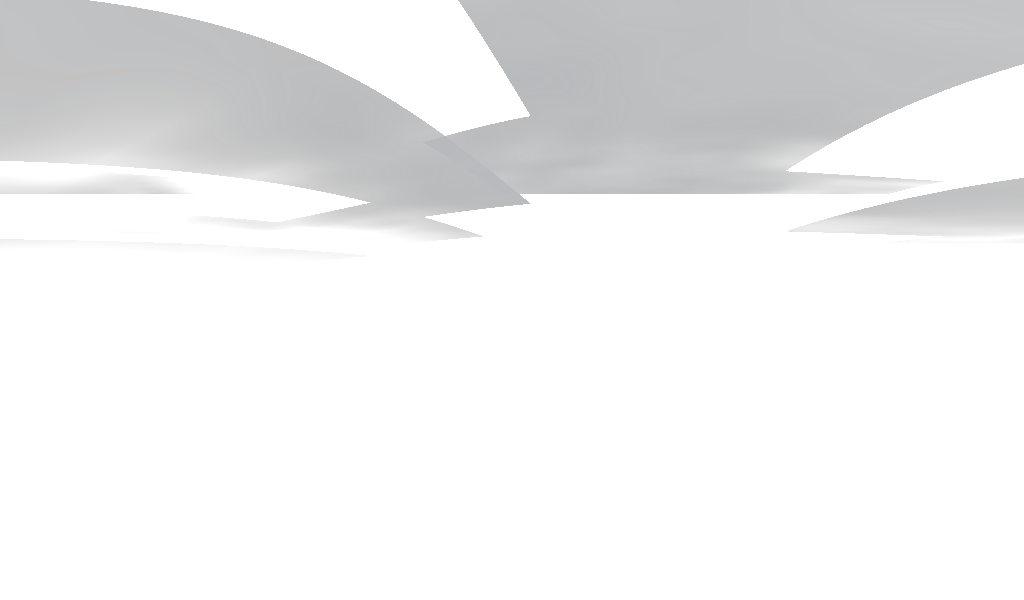
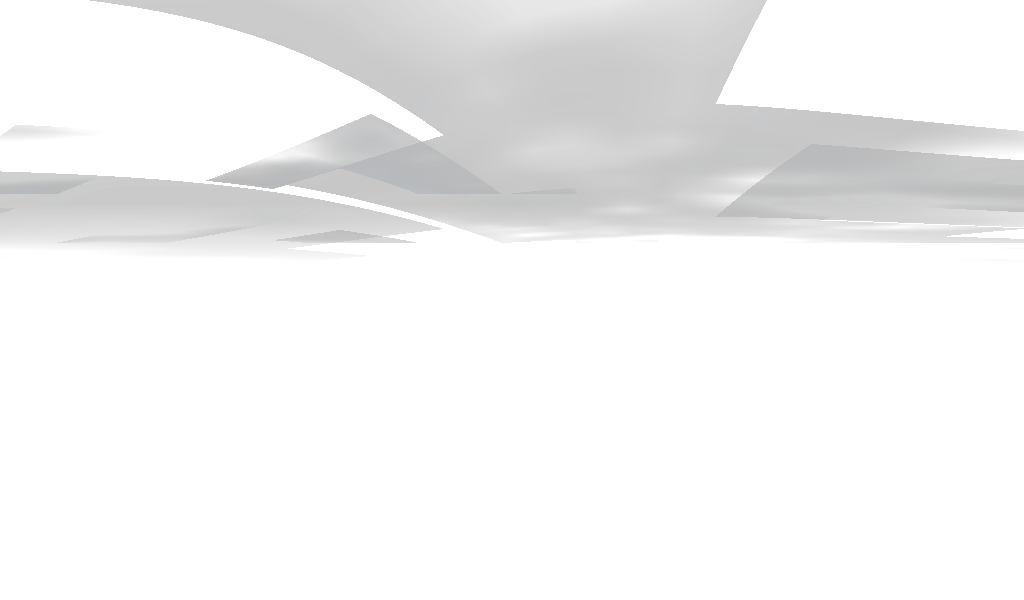
Stream live Cliff House runtime

Changed region(s): [[0.0, 0.0, 1.0, 0.42], [0.8125, 0.36, 1.0, 0.42], [0.5312, 0.21, 0.5938, 0.27]]

diff --git a/site/_worker.js b/site/_worker.js
@@ -1,0 +1,33 @@
+const LIVE_PREFIX = '/cliffhouse/runtime/';
+const LIVE_ORIGIN = 'https://raw.githubusercontent.com/CastaliaInstitute/luminary/runtime-live/';
+
+export default {
+  async fetch(request, env) {
+    const url = new URL(request.url);
+    if (!url.pathname.startsWith(LIVE_PREFIX)) {
+      return env.ASSETS.fetch(request);
+    }
+
+    const relativePath = url.pathname.slice(1);
+    const upstream = new URL(relativePath, LIVE_ORIGIN);
+    // GitHub's raw-file edge may briefly retain a force-updated branch URL.
+    // A five-minute generation key bounds that delay without producing an
+    // unbounded cache key for every browser request.
+    upstream.searchParams.set('generation', String(Math.floor(Date.now() / 300000)));
+    const response = await fetch(upstream, {
+      headers: { Accept: request.headers.get('Accept') || '*/*' },
+      redirect: 'follow',
+    });
+    if (!response.ok) {
+      return new Response('Live Cliff House runtime is temporarily unavailable.', {
+        status: response.status,
+        headers: { 'Content-Type': 'text/plain; charset=utf-8', 'Cache-Control': 'no-store' },
+      });
+    }
+
+    const headers = new Headers(response.headers);
+    headers.set('Cache-Control', 'public, max-age=60, stale-while-revalidate=240');
+    headers.set('X-Luminary-Runtime', 'runtime-live');
+    return new Response(response.body, { status: response.status, headers });
+  },
+};

diff --git a/site/cliffhouse/cliff-house.js b/site/cliffhouse/cliff-house.js
@@ -290,10 +290,11 @@ async function refreshLive() {
 
 async function loadMeasuredClouds() {
   try {
-    const metadata = await json('./runtime/clouds/goes-cloud-plane.json');
+    const metadata = await json(`./runtime/clouds/goes-cloud-plane.json?t=${Date.now()}`);
     const count = Math.min(12, metadata.motion?.frame_count || 0);
+    const generation = encodeURIComponent(metadata.source_times_utc?.at(-1) || Date.now());
     const frames = await Promise.all(Array.from({ length: count }, (_, i) =>
-      image(`./runtime/clouds/cloud-frame-${String(i).padStart(3, '0')}.png`)));
+      image(`./runtime/clouds/cloud-frame-${String(i).padStart(3, '0')}.png?v=${generation}`)));
     measuredCloudFrames = frames;
     measuredCloudMaps = frames.map((frame) => {
       const sample = new OffscreenCanvas(64, 32);

diff --git a/site/cliffhouse/index.html b/site/cliffhouse/index.html
@@ -10,8 +10,8 @@
   <meta name="apple-mobile-web-app-title" content="Cliff House">
   <title>Cliff House Luminary</title>
   <link rel="canonical" href="https://luminary.castalia.institute/cliffhouse/">
-  <link rel="manifest" href="./manifest.webmanifest?v=2">
-  <link rel="stylesheet" href="./cliff-house.css?v=2">
+  <link rel="manifest" href="./manifest.webmanifest?v=3">
+  <link rel="stylesheet" href="./cliff-house.css?v=3">
 </head>
 <body>
   <main class="stage" aria-label="Cliff House live sea and sky">
@@ -22,6 +22,6 @@
     </section>
     <div id="offline" class="offline" hidden>Offline · cached conditions</div>
   </main>
-  <script type="module" src="./cliff-house.js?v=2"></script>
+  <script type="module" src="./cliff-house.js?v=3"></script>
 </body>
 </html>

diff --git a/site/cliffhouse/sw.js b/site/cliffhouse/sw.js
@@ -1,4 +1,4 @@
-const CACHE = 'cliff-house-luminary-v2';
+const CACHE = 'cliff-house-luminary-v3';
 const SHELL = [
   './', './index.html', './cliff-house.css', './cliff-house.js', './solar.js',
   './manifest.webmanifest', './assets/registration.json',

diff --git a/scripts/update-cliffhouse-web-runtime.py b/scripts/update-cliffhouse-web-runtime.py
@@ -1,0 +1,100 @@
+#!/usr/bin/env python3
+"""Build the live Cliff House web runtime from the current York observations.
+
+The Nubble and Cliff House views share the same GOES downloads and measured
+height-resolved winds. This script reprojects that measured atmosphere through
+the Cliff House camera and publishes only the compact browser assets.
+"""
+
+from __future__ import annotations
+
+import argparse
+import json
+import shutil
+import subprocess
+import sys
+from pathlib import Path
+
+
+ROOT = Path(__file__).resolve().parents[1]
+PYTHON = sys.executable
+CONFIG = ROOT / "config/cliff-house-conditions.json"
+YORK_CLOUDS = ROOT / "tmp/york-live/goes-clouds"
+OUTPUT = ROOT / "site/cliffhouse/runtime"
+WORK = ROOT / "tmp/cliffhouse-live"
+
+
+def run(*arguments: str) -> None:
+    subprocess.run([PYTHON, *arguments], cwd=ROOT, check=True)
+
+
+def main() -> None:
+    parser = argparse.ArgumentParser(description=__doc__)
+    parser.add_argument("--frames", type=int, default=12)
+    parser.add_argument("--loop-seconds", type=float, default=120.0)
+    args = parser.parse_args()
+
+    config = json.loads(CONFIG.read_text())
+    camera = config["camera"]
+    source_manifest = json.loads((YORK_CLOUDS / "goes-cloud-plane.json").read_text())
+    source_files = [YORK_CLOUDS / Path(key).name for key in source_manifest["source_keys"]]
+    height_file = YORK_CLOUDS / Path(source_manifest["cloud_top_height_source"]).name
+    winds = YORK_CLOUDS / "dmw-shell-winds.json"
+    required = [*source_files, height_file, winds]
+    missing = [str(path) for path in required if not path.is_file()]
+    if missing:
+        raise FileNotFoundError("Missing shared York runtime inputs: " + ", ".join(missing))
+
+    WORK.mkdir(parents=True, exist_ok=True)
+    conditions = WORK / "conditions.json"
+    with conditions.open("w") as destination:
+        subprocess.run(
+            [PYTHON, "scripts/fetch-york-conditions.py", "--config", str(CONFIG), "--pretty"],
+            cwd=ROOT, check=True, stdout=destination,
+        )
+    observed = json.loads(conditions.read_text())
+    clouds = WORK / "clouds"
+    clouds.mkdir(parents=True, exist_ok=True)
+    run(
+        "scripts/build-goes-york-cloud-plane.py",
+        "--output", str(clouds),
+        "--latitude", str(camera["latitude"]),
+        "--longitude", str(camera["longitude"]),
+        "--bearing-deg", str(camera["bearing_deg_true"]),
+        "--source", *(str(path) for path in source_files),
+        "--height-source", str(height_file),
+        "--shell-winds", str(winds),
+        "--wind-from-deg", str(observed.get("wind_direction_deg") or 270),
+        "--wind-knots", str(observed.get("wind_knots") or 8),
+        "--frames", str(args.frames),
+        "--loop-seconds", str(args.loop_seconds),
+    )
+
+    cloud_manifest_path = clouds / "goes-cloud-plane.json"
+    cloud_manifest = json.loads(cloud_manifest_path.read_text())
+    # build-goes receives local files here so it cannot infer their original
+    # observation timestamps. Preserve the authoritative metadata from the
+    # shared York download for cache versioning and freshness diagnostics.
+    cloud_manifest["source_keys"] = source_manifest["source_keys"]
+    cloud_manifest["source_times_utc"] = source_manifest["source_times_utc"]
+    cloud_manifest["cloud_top_height_source"] = source_manifest["cloud_top_height_source"]
+    cloud_manifest_path.write_text(json.dumps(cloud_manifest, indent=2) + "\n")
+
+    staged = WORK / "published"
+    if staged.exists():
+        shutil.rmtree(staged)
+    (staged / "clouds").mkdir(parents=True)
+    shutil.copy2(conditions, staged / "conditions.json")
+    shutil.copy2(cloud_manifest_path, staged / "clouds/goes-cloud-plane.json")
+    for index in range(args.frames):
+        name = f"cloud-frame-{index:03d}.png"
+        shutil.copy2(clouds / name, staged / "clouds" / name)
+
+    if OUTPUT.exists():
+        shutil.rmtree(OUTPUT)
+    shutil.copytree(staged, OUTPUT)
+    print(f"Published {args.frames} current Cliff House cloud frames to {OUTPUT}")
+
+
+if __name__ == "__main__":
+    main()
